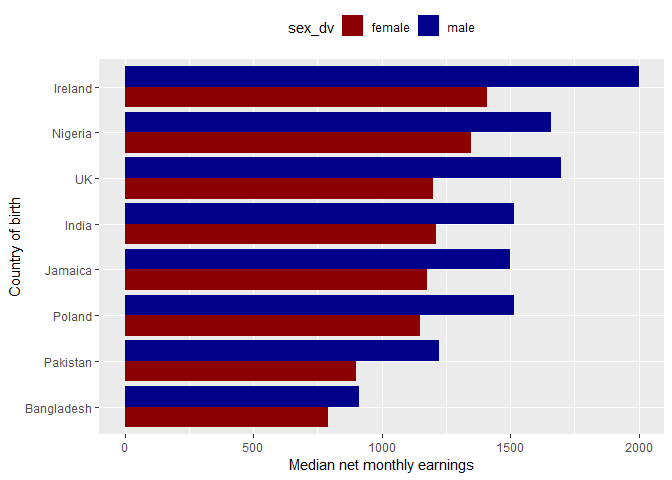
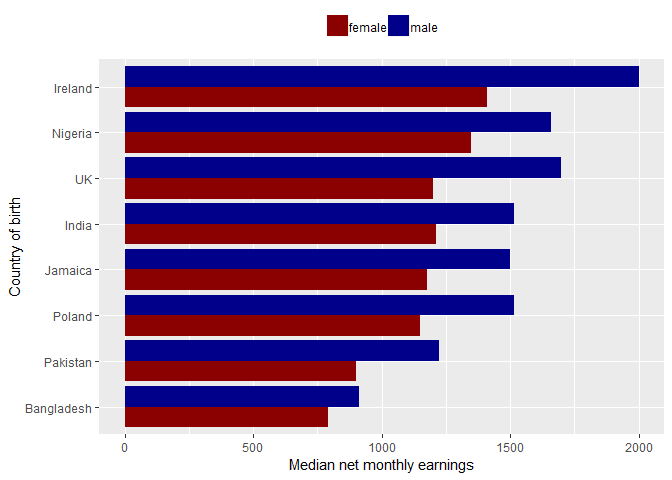
One tiny change

Changed region(s): [[0.4375, 0.0312, 0.7188, 0.0938]]

diff --git a/assignment4.md b/assignment4.md
@@ -141,7 +141,7 @@ Reproduce the following graphs as close as you can. For each graph, write two se
       ggplot(aes(x = placeBorn, y = MedianIncome, fill = sex_dv)) +
       geom_bar(position = "dodge", stat= "identity") +
       scale_fill_manual(values = c("Dark Red","Dark Blue")) +
-      theme(legend.position = "top") +
+      theme(legend.position = "top", legend.title = element_blank()) +
       xlab("Country of birth") +
       ylab("Median net monthly earnings") +
       coord_flip()
